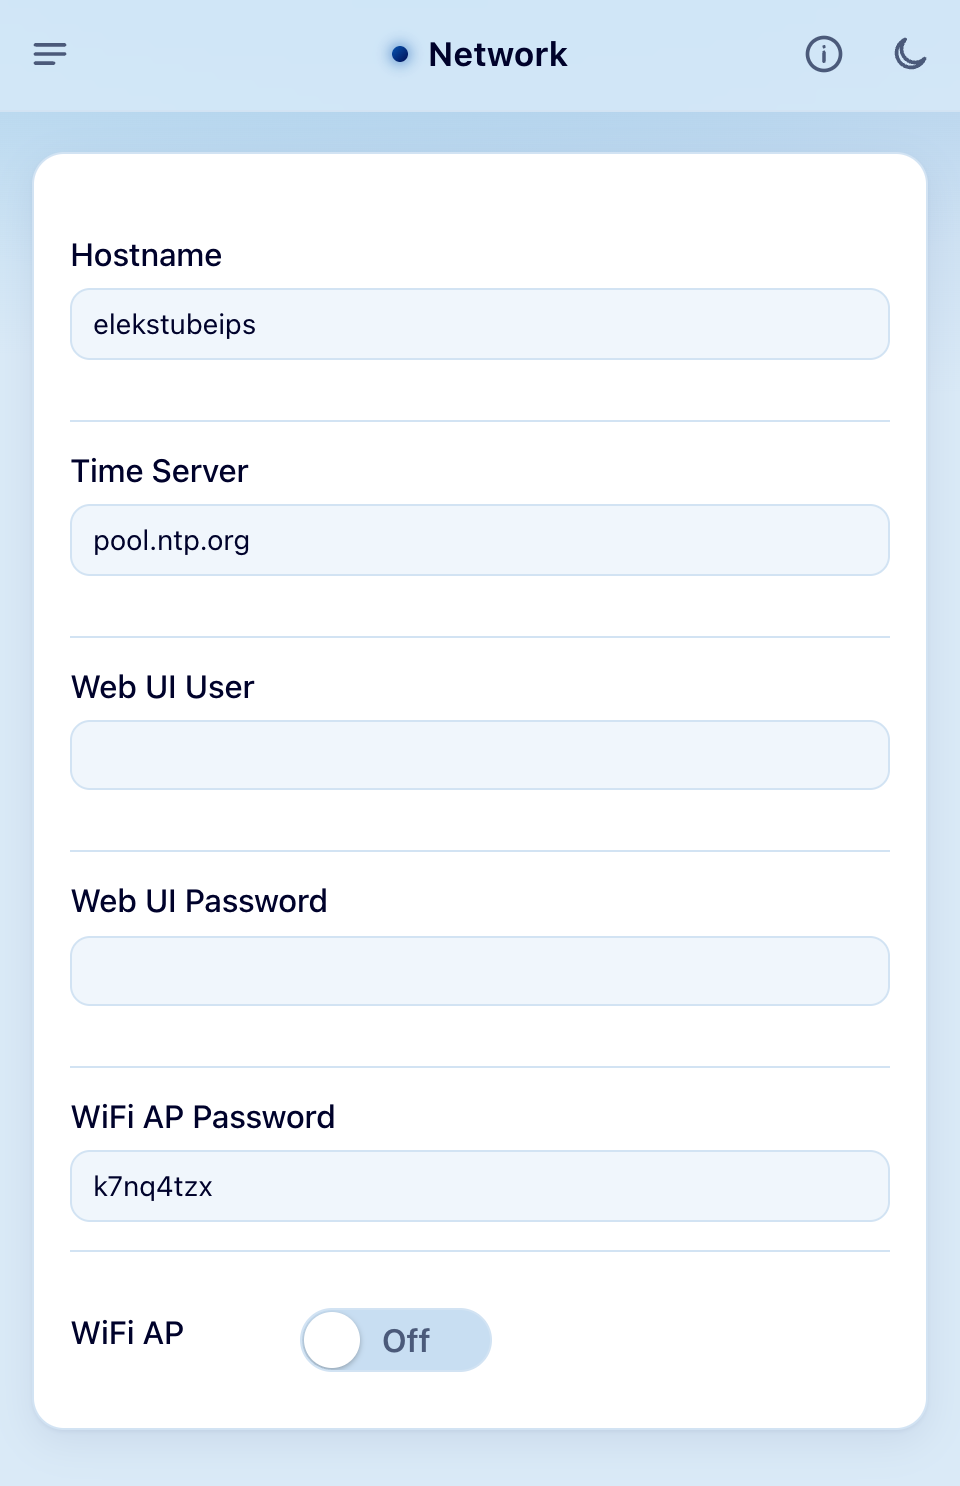
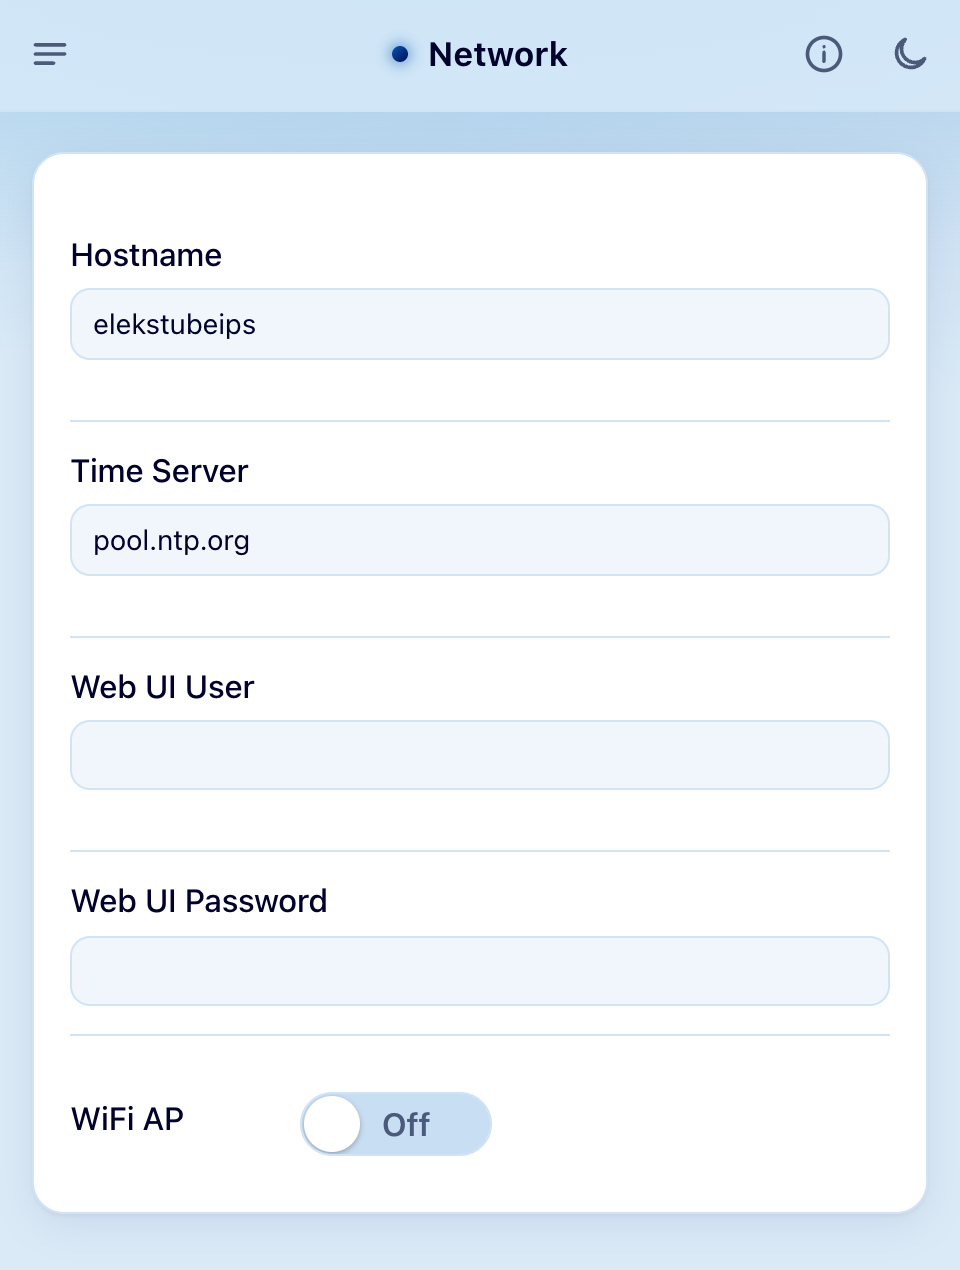
Make a new access point password for each session, shown only on the displays
The access point password was a setting, saved and shown on the Network
page, so anyone who could open the web UI could read it, and it stayed
the same until someone changed it. Now the clock makes a new one when it
starts and each time the access point closes, so each session has its
own, and it's only on the displays, as before. The Network page's WiFi
AP Password field goes.

AsyncWiFiManager has no hook before the access point opens, so the next
password is made when it closes, which covers every way it opens without
changing the library. setWiFiAP() starts the portal with the name and
password the manager already has, so the web socket's task never reads
the password while the Wi-Fi manager's task replaces it.

Settings saved by 2.0.8 to 2.1.13 have the old password after the
others. upgradeEEPROM() recognises them, keeps every setting and clears
what's after them. The remaining settings are the same set as 2.0.6 and
2.0.7 had, so those load as they are.

diff --git a/web/src/network.html b/web/src/network.html
@@ -26,10 +26,6 @@
 						<label for="web_password">Web UI Password</label>
 						<input maxlength="63" onchange="elementBlur(this, 'Use only letters, digits, spaces and punctuation, without accents')" pattern="[ -~]*" type="password" id="web_password" autocomplete="new-password" data-mini="true" />
 					</div>
-					<div data-role="fieldcontain">
-						<label for="ap_password">WiFi AP Password</label>
-						<input maxlength="63" onblur="elementBlur(this, 'Use 8 to 63 letters, digits, spaces and punctuation, without accents, or clear it for a new random one')" pattern="([ -~]{8,63})?" type="text" id="ap_password" autocomplete="off" data-mini="true" />
-					</div>
 					<div class="dispInlineLabel">
 						<label for="wifi_ap">WiFi AP</label>
 					</div>

diff --git a/web/server.js b/web/server.js
@@ -213,8 +213,7 @@ var state = {
 		'hostname' : 'localhost',
 		'time_server' : 'pool.ntp.org',
 		'web_user' : '',
-		'web_password' : '',
-		'ap_password' : 'abcd2345'
+		'web_password' : ''
 	},
 	"7": {
 		"weather_token":"********",

diff --git a/src/main.cpp b/src/main.cpp
@@ -180,8 +180,11 @@ StringConfigItem timeServer("time_server", 63, "pool.ntp.org");	// A name or an 
 StringConfigItem webUser("web_user", 31, "");
 StringConfigItem webPassword("web_password", 63, "");
 
-// Each clock makes up its own, see initFromEEPROM(). Upstream used "secretsauce" on every clock.
-StringConfigItem apPassword("ap_password", 63, "");
+// The access point's password, a new one each time the access point opens, see newAPPassword(). The clock
+// doesn't save it and only shows it on the displays, so nothing the web UI or MQTT can read gives it away,
+// and one seen once is no use later. The Wi-Fi driver does keep the access point's settings in flash, as it
+// does the network's password. Upstream used "secretsauce" on every clock.
+char apPassword[9] = "";
 
 enum WEATHER_MESSAGE {
 	WEATHER_UPDATE = 1,
@@ -358,14 +361,6 @@ IRAMPtrArray<BaseConfigItem*> webLoginSet {
 
 CompositeConfigItem webLoginConfig("web_login", 0, webLoginSet);
 
-// Settings added after 2.0.7. MQTT is never sent the access point's password.
-IRAMPtrArray<BaseConfigItem*> accessPointSet {
-	&apPassword,
-	0
-};
-
-CompositeConfigItem accessPointConfig("access_point", 0, accessPointSet);
-
 // All configurations
 IRAMPtrArray<BaseConfigItem*> configSetRoot {
 	&globalConfig,
@@ -378,10 +373,10 @@ IRAMPtrArray<BaseConfigItem*> configSetRoot {
 	&networkConfig,
 	&cycleConfig,
 	&webLoginConfig,
-	&accessPointConfig,
 	0
 };
 
+// The same as 2.0.6 and 2.0.7 had, so those load as they are
 CompositeConfigItem rootConfig("root", 0, configSetRoot);
 
 // The configurations from upstream 1.9.4 to 2.0.2, to recognise them in EEPROM
@@ -414,8 +409,18 @@ IRAMPtrArray<BaseConfigItem*> setRoot205 {
 
 CompositeConfigItem rootConfig205("root", 0, setRoot205);
 
-// And from 2.0.6 to 2.0.7
-IRAMPtrArray<BaseConfigItem*> setRoot207 {
+// And from 2.0.8 to 2.1.13, which saved the access point's password after the other settings. Only the
+// names count towards the checksum, so this one is never read or written.
+StringConfigItem savedAPPassword("ap_password", 63, "");
+
+IRAMPtrArray<BaseConfigItem*> accessPointSet {
+	&savedAPPassword,
+	0
+};
+
+CompositeConfigItem accessPointConfig("access_point", 0, accessPointSet);
+
+IRAMPtrArray<BaseConfigItem*> setRoot213 {
 	&globalConfig,
 	&clockConfig,
 	&ledConfig,
@@ -426,10 +431,11 @@ IRAMPtrArray<BaseConfigItem*> setRoot207 {
 	&networkConfig,
 	&cycleConfig,
 	&webLoginConfig,
+	&accessPointConfig,
 	0
 };
 
-CompositeConfigItem rootConfig207("root", 0, setRoot207);
+CompositeConfigItem rootConfig213("root", 0, setRoot213);
 
 // Store the configurations in EEPROM
 EEPROMConfig config(rootConfig);
@@ -844,9 +850,14 @@ void showAccessPoint() {
 			address = address.substring(0, dot + 1) + "\n" + address.substring(dot + 1);
 		}
 
+		// A copy, as a new one is made on the Wi-Fi manager's task when the access point closes
+		char password[sizeof(apPassword)];
+		memcpy(password, apPassword, sizeof(password));
+		password[sizeof(password) - 1] = '\0';
+
 		TFTs::DisplayStatus statuses[5] = {
 			{ "WiFi network", name.c_str(), false },
-			{ "WiFi password", apPassword.value.c_str(), true },
+			{ "WiFi password", password, true },
 			{ "Setup page", address.c_str(), false },
 		};
 		uint8_t count = 3;
@@ -1233,24 +1244,6 @@ void setSecret(StringConfigItem &item, const String &value) {
 	broadcastUpdate("{\"type\":\"sv.update\",\"value\":{" + passwordJSON(item) + "}}");	// Also puts back anything refused
 }
 
-String randomAPPassword();
-
-// Unlike the other passwords it's shown, on the Network page and on the displays, since it's there so
-// that whoever can see the clock can join its access point. Clearing it makes a new random one. It's
-// used the next time the access point starts.
-void setAPPassword(const String &value) {
-	String password = value.length() > 0 ? value : randomAPPassword();
-	if (password.length() >= 8 && validLogin(apPassword, password) && password != apPassword.value) {
-		apPassword = password;
-		apPassword.put();
-		xSemaphoreTake(wsMutex, portMAX_DELAY);	// Held while the Wi-Fi manager runs, see wifiManagerTaskFn()
-		wifiManager->setAPCredentials(ssid.c_str(), apPassword.value.c_str());
-		xSemaphoreGive(wsMutex);
-	}
-
-	broadcastToWebUI(apPassword);	// Also puts back anything refused
-}
-
 // A name that works everywhere the hostname is used: DHCP, mDNS and the web UI's JSON. Letters, digits
 // and hyphens, without a hyphen at either end.
 bool validHostname(const String &name) {
@@ -1299,8 +1292,6 @@ void updateValue(int screen, String pair) {
 		setWebLogin(*(StringConfigItem*)item, value);
 	} else if (item == &MQTTBroker::getPassword() || item == &WeatherService::getWeatherToken()) {
 		setSecret(*(StringConfigItem*)item, value);
-	} else if (item == &apPassword) {
-		setAPPassword(value);
 	} else if (item == &hostName && !validHostname(value)) {
 		broadcastToWebUI(hostName);	// Puts back what was refused
 	} else if (item != 0 && !isSettingsGroup(item)) {
@@ -1948,8 +1939,6 @@ String wifiCallback() {
 	wifiStatus += hostName.toJSON();	// Escaped, as one saved before names were checked could have anything in it
 	wifiStatus += ",";
 	wifiStatus += webLoginJSON();
-	wifiStatus += ",\"ap_password\":";
-	wifiStatus += apPassword.toJSON();
 
 	return wifiStatus;
 }
@@ -2059,12 +2048,14 @@ void upgradeEEPROM() {
 		networkConfig.put();
 		cycleConfig.put();
 		webLoginConfig.put();
-		accessPointConfig.put();
 	} else if (storedChecksum == rootConfig205.getChecksum(0)) {
 		webLoginConfig.put();
-		accessPointConfig.put();
-	} else if (storedChecksum == rootConfig207.getChecksum(0)) {
-		accessPointConfig.put();
+	} else if (storedChecksum == rootConfig213.getChecksum(0)) {
+		// Nothing new, but the access point's old password is still saved after the other settings.
+		// Clear everything after them, from where EEPROMConfig's constructor laid them out to.
+		for (int i = rootConfig.init(sizeof(int)); i < EEPROM.length(); i++) {
+			EEPROM.write(i, 0);
+		}
 	} else {
 		return;
 	}
@@ -2072,12 +2063,13 @@ void upgradeEEPROM() {
 	config.commit();
 }
 
-// From letters and digits that can't be mistaken for each other, so it's easy to copy off the displays
-String randomAPPassword() {
+// From letters and digits that can't be mistaken for each other, so it's easy to copy off the displays.
+// Gives it to the Wi-Fi manager for the next time the access point opens, so make it while it's closed.
+void newAPPassword() {
 	// None that look alike, and none as wide as m and w, so that 8 always fit on a line of the
 	// displays in the bigger text. The fewest WPA2 allows, but it's only on while setting up.
 	const char *characters = "abcdefghijknpqrstuvxyz23456789";	// 30
-	String password;
+	char password[sizeof(apPassword)];
 
 	// esp_random() is only really random while Wi-Fi is on, or with the bootloader's source, which
 	// mustn't be used while Wi-Fi is on
@@ -2085,14 +2077,16 @@ String randomAPPassword() {
 	if (wifiOff) {
 		bootloader_random_enable();
 	}
-	for (int i = 0; i < 8; i++) {
-		password += characters[esp_random() % 30];
+	for (int i = 0; i < sizeof(password) - 1; i++) {
+		password[i] = characters[esp_random() % 30];
 	}
 	if (wifiOff) {
 		bootloader_random_disable();
 	}
+	password[sizeof(password) - 1] = '\0';
 
-	return password;
+	memcpy(apPassword, password, sizeof(apPassword));
+	wifiManager->setAPCredentials(ssid.c_str(), apPassword);
 }
 
 void initFromEEPROM() {
@@ -2101,12 +2095,6 @@ void initFromEEPROM() {
 	config.init();
 //	rootConfig.debug(debugPrint);
 	rootConfig.get();	// Read all of the config values from EEPROM
-
-	if (apPassword.value.length() < 8) {	// The first start, or the first since upgrading
-		apPassword = randomAPPassword();
-		apPassword.put();
-		config.commit();
-	}
 
 	// The browser's check is for the message. SetupServer() checks again.
 	hostnameParam = new AsyncWiFiManagerParameter("Hostname", "Hostname", hostName.value.c_str(), 63,
@@ -2133,6 +2121,7 @@ void apChange(AsyncWiFiManager *wifiManager) {
 		tfts->setStatus(ssid);
 	} else {
 		tfts->setStatus("AP Destroyed...");
+		newAPPassword();	// So no one who saw this one can join the next time it opens
 		uint32_t value = WEATHER_UPDATE;
 		xQueueSend(weatherQueue, &value, 0);	// Not enough memory to make an HTTPS request while AP is active
 	}
@@ -2170,7 +2159,9 @@ void closeIdleAccessPoint() {
 
 void setWiFiAP(bool on) {
 	if (on) {
-		wifiManager->startConfigPortal(ssid.c_str(), apPassword.value.c_str());
+		// With the name and password the Wi-Fi manager already has. They're read on its task, so this
+		// one doesn't, in case the password is being replaced.
+		wifiManager->startConfigPortal();
 	} else {
 		wifiManager->stopConfigPortal();
 	}
@@ -2236,7 +2227,7 @@ void SetupServer() {
 	}
 	config.commit();
 	createSSID();
-	wifiManager->setAPCredentials(ssid.c_str(), apPassword.value.c_str());
+	wifiManager->setAPCredentials(ssid.c_str(), apPassword);	// The same password, the access point may still be on
 	DEBUG(hostName.value.c_str());
 	MDNS.begin(hostName.value.c_str());
 	MDNS.addService("http", "tcp", 80);
@@ -2371,7 +2362,7 @@ IPSClock::getTimeZone().setCallback(onTimezoneChanged);
 	wifiManager->setSaveConfigCallback(SetupServer);
 	wifiManager->setConnectedCallback(connectedHandler);
 	wifiManager->setAPCallback(apChange);
-	wifiManager->setAPCredentials(ssid.c_str(), apPassword.value.c_str());
+	newAPPassword();	// For the first time the access point opens
 	server->addHandler(new WebLoginHandler());	// Before any other handler, so it sees every request first
 	setStaticAddress();
 

diff --git a/src/mqttBroker.cpp b/src/mqttBroker.cpp
@@ -549,8 +549,8 @@ bool MQTTBroker::publishState() {
             serializeJson(volatileState, buffer);
             client.publish(volatileStateTopic, 1, false, buffer);
 
-            // Leave out the MQTT credentials, the weather API key, the web UI login and the access point password, anyone subscribed to the broker can read this
-            const char *excludes[] = { "mqtt", "weather", "web_login", "access_point", 0 };
+            // Leave out the MQTT credentials, the weather API key and the web UI login, anyone subscribed to the broker can read this
+            const char *excludes[] = { "mqtt", "weather", "web_login", 0 };
             const char *weatherExcludes[] = { "weather_token", 0 };
             String persistentState;
             persistentState.reserve(1400);

diff --git a/docs/user-guide.md b/docs/user-guide.md
@@ -25,7 +25,7 @@ The page has other buttons too:
 * **Configure Clock** opens the [web UI](#the-web-ui) over the access point.
 * **Info** says whether the clock has joined a network, or why it can't, and shows details of the clock. **Reset** restarts it.
 
-Each clock makes up its own access point password the first time it starts. The [Network](#network) page shows it and can change it. To move the clock to a different network later, turn on **WiFi AP** on the Network page and follow the steps above.
+The clock makes up a new access point password each time the access point opens, and only shows it on the displays, so a password someone saw before won't work again. If your phone or computer saved an earlier one, it says the password is wrong: enter the one on the displays. To move the clock to a different network later, turn on **WiFi AP** on the [Network](#network) page and follow the steps above.
 
 If the clock loses its network while it's running, it keeps trying to rejoin, but doesn't open its access point by itself. So if it can't get back on, for example because your router's password changed, unplug it and plug it back in. It opens the access point when it finds it can't join.
 
@@ -177,8 +177,7 @@ The clock publishes its state on `clock/<id>/volatile/state` (brightness, displa
 * **Hostname** is the clock's name on your network, so the web UI is at http://*hostname*.local. Give each clock its own. It can have letters, digits and hyphens, without a hyphen at either end. The clock restarts when you change it.
 * **Time Server** is where the clock gets the time, by name or IP address, such as a server on your own network. The default is pool.ntp.org.
 * **Web UI User** and **Web UI Password** set a login for the web UI. Set both and the clock asks for them before every page, upload and `/custom` request. Clear either one to turn the login off. The user can have letters, digits and `. _ - @`, and the password letters, digits, spaces and punctuation, without accents. Setting or changing the login disconnects any web UI that's open, so reload it and log in. If you forget the login, start the clock where it can't join your Wi-Fi, connect to its access point, choose **Configure Clock** and change it here, since the clock doesn't ask for it over its access point.
-* **WiFi AP Password** is the access point's password. Type your own, at least 8 characters, or clear it for a new random one. A new password is used the next time the access point starts.
-* **WiFi AP** turns the access point on or off, for example to move the clock to a different network, see [Connecting to Wi-Fi](#connecting-to-wi-fi). If the clock is on your network, the access point closes by itself once nobody has been on it for 10 minutes.
+* **WiFi AP** turns the access point on or off, for example to move the clock to a different network, see [Connecting to Wi-Fi](#connecting-to-wi-fi). Its password is new each time and on the displays. If the clock is on your network, the access point closes by itself once nobody has been on it for 10 minutes.
 
 ## Info
 
